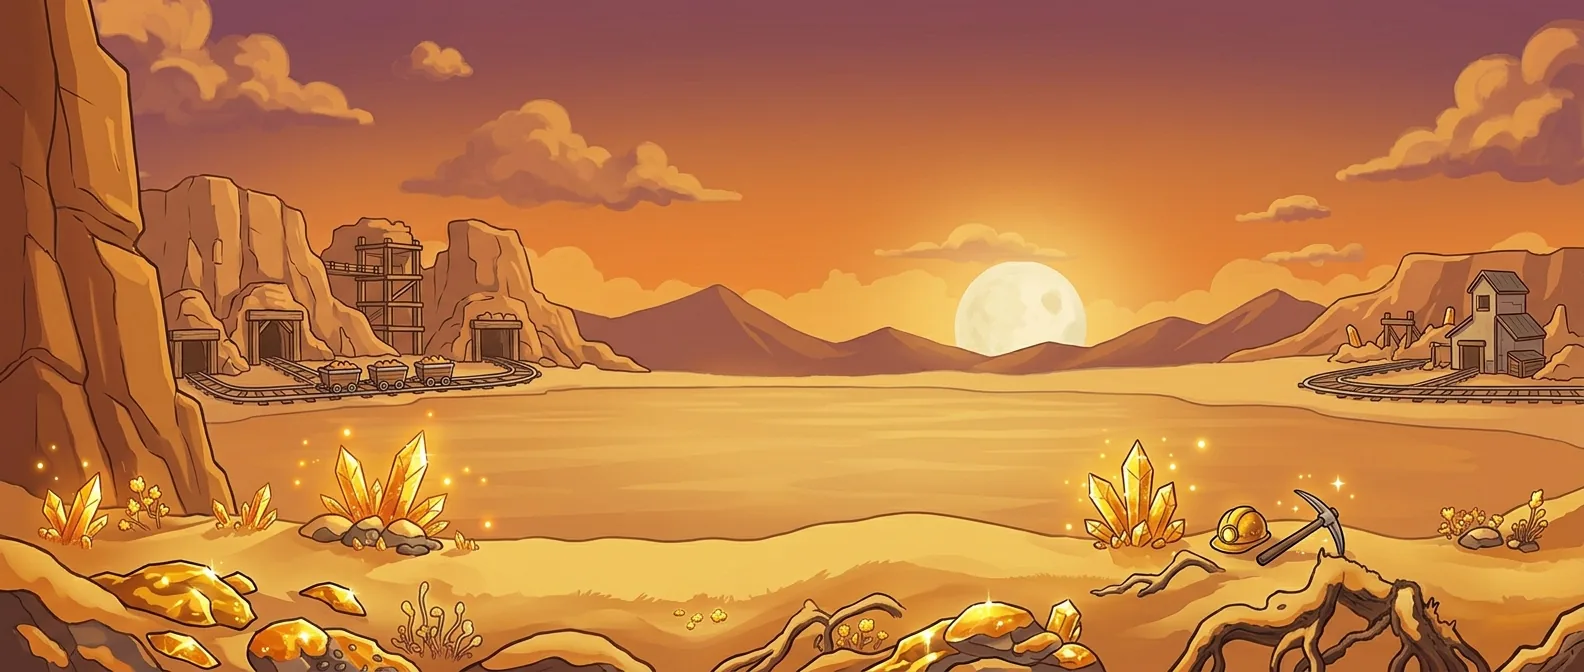
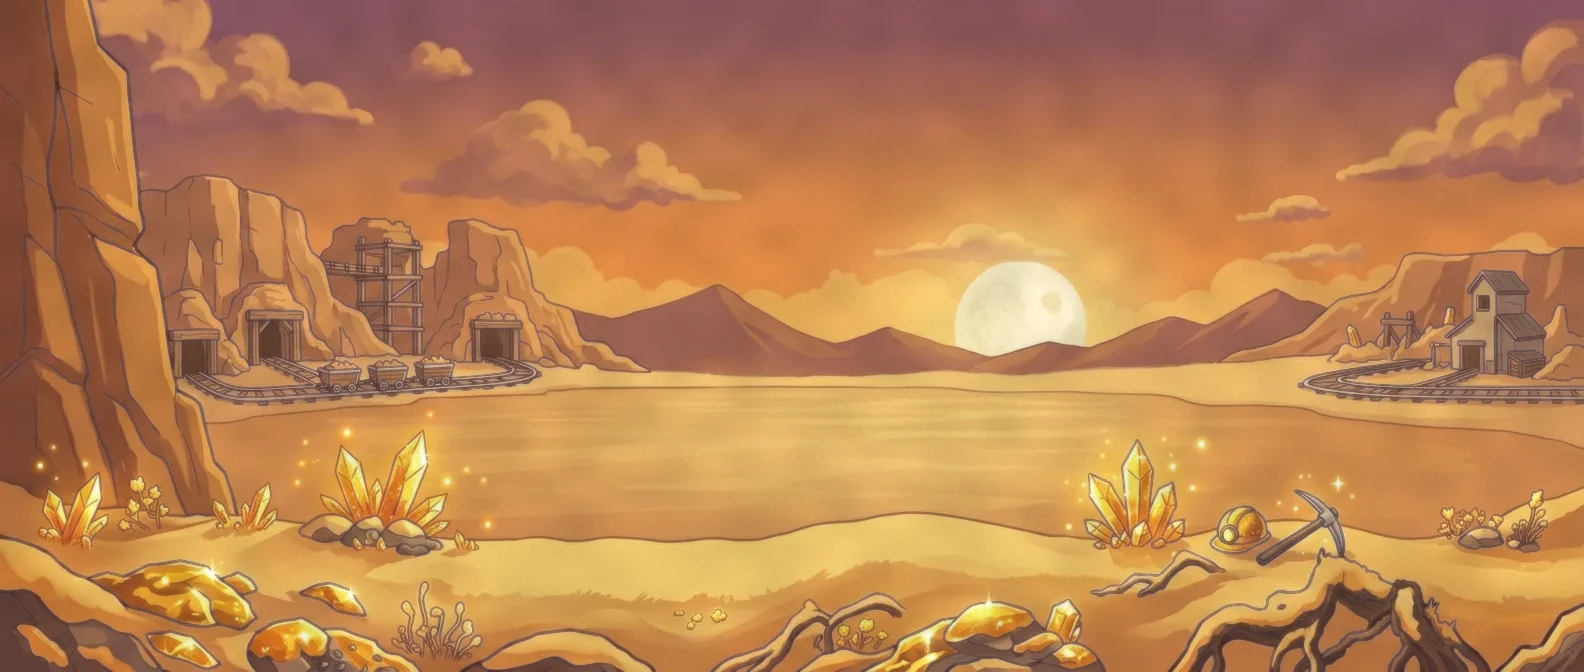
Todas as 7 ilhas com cenario pintado; neve nova em aquarela; vila e mapa tratados
Claude-Session: https://claude.ai/code/session_016DNfNMVWoPpCmKxkvkZ4Xb

diff --git a/index.html b/index.html
@@ -3202,7 +3202,7 @@ new ResizeObserver(resizeArena).observe($('arenaWrap'));
 // cenário pintado de cada ilha (assets/bg/<bioma>.webp); sem a imagem, vale o cenário desenhado por código
 const BG_IMG = {};
 const BG_LANE = .715;                                   // fração da altura da pintura onde fica a pista
-const BG_LANES = {campo:.775, pantano:.79, vulcao:.8, arcano:.8};                          // pinturas novas (aquarela) têm a estrada em outra altura
+const BG_LANES = {campo:.775, pantano:.79, vulcao:.8, arcano:.8, neve:.78};                          // pinturas novas (aquarela) têm a estrada em outra altura
 function bgImage(key){
   if (!(key in BG_IMG)){ const im = new Image(); im.src = 'assets/bg/' + key + '.webp'; BG_IMG[key] = im; }
   const im = BG_IMG[key]; return im.complete && im.naturalWidth ? im : null;

diff --git a/dev/repaint_bg.py b/dev/repaint_bg.py
@@ -1,0 +1,29 @@
+"""Passa os cenários que ainda não são aquarela (ou saíram com traço forte) pelo mesmo tratamento de pintura."""
+import os, shutil, sys, numpy as np
+from PIL import Image, ImageFilter
+rs = np.random.RandomState(11)
+def tex(w, h):
+    low = np.array(Image.fromarray((rs.rand(24, 48)*255).astype(np.uint8)).resize((w, h), Image.BICUBIC)).astype(np.float32)/255
+    return (.94 + .1*low)[..., None]*(.98 + .04*rs.rand(h, w).astype(np.float32))[..., None]
+def paint_bg(im, lift=14, k=7):
+    im = im.convert('RGB'); w, h = im.size; rgb = np.asarray(im).astype(np.float32)
+    med = np.asarray(im.filter(ImageFilter.MedianFilter(k))).astype(np.float32)
+    L = np.array([.299, .587, .114], np.float32); luma = rgb @ L; ml = med @ L
+    dark = np.clip((110 - luma)/60, 0, 1)*np.clip((ml - luma + 6)/36, 0, 1)
+    line = med*.55 + np.array([26, 18, 30], np.float32)
+    out = rgb*(1 - dark[..., None]) + line*dark[..., None]
+    soft = np.asarray(Image.fromarray(out.clip(0, 255).astype(np.uint8)).filter(ImageFilter.GaussianBlur(1.6))).astype(np.float32)
+    out = out*.6 + soft*.4
+    g = out.mean(-1, keepdims=True); out = g + (out - g)*.92
+    out = (out*(1 - lift/255) + lift)*tex(w, h)
+    return Image.fromarray(out.clip(0, 255).astype(np.uint8))
+if __name__ == '__main__':
+    for key, lift in [('sombra', 10), ('dourado', 14), ('vulcao', 16), ('arcano', 14)]:
+        p = f'site/assets/bg/{key}.webp'; b = f'site/assets/bg/{key}_pre.webp'
+        if not os.path.exists(b): shutil.copy(p, b)
+        paint_bg(Image.open(b), lift).save(p, 'WEBP', quality=88, method=6)
+    for p in ['site/assets/cenas/vila.webp', 'site/assets/cenas/mapa.webp']:
+        b = p.replace('.webp', '_pre.webp')
+        if not os.path.exists(b): shutil.copy(p, b)
+        paint_bg(Image.open(b), 10).save(p, 'WEBP', quality=88, method=6)
+    print('cenários tratados')
